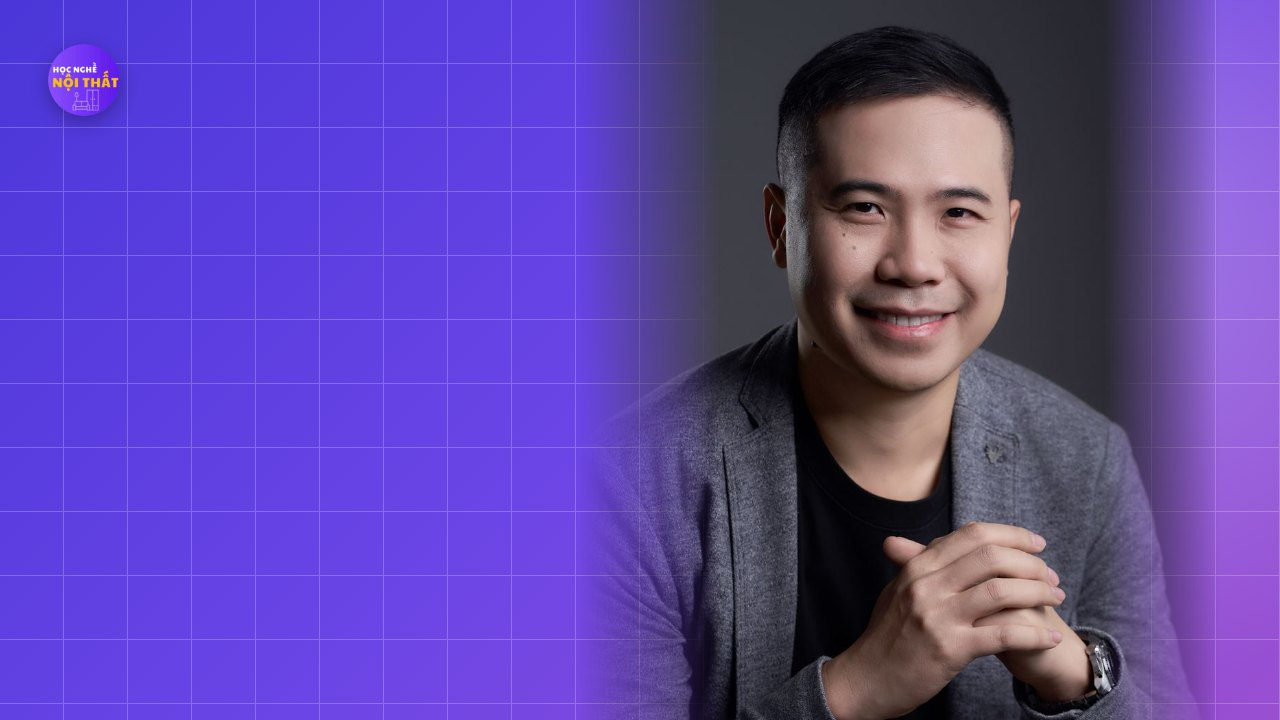
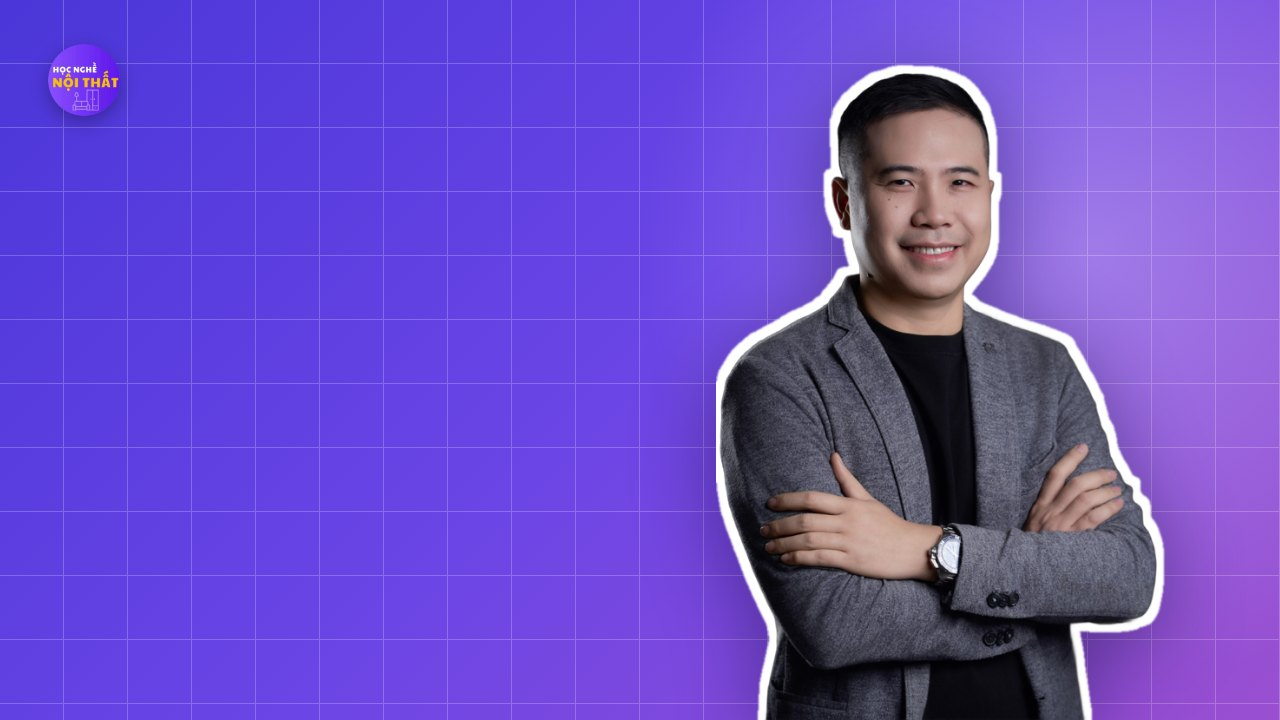
Thumbnail khoá học: chân dung Nam tách nền, viền trắng, mỗi khoá một ảnh
Claude-Session: https://claude.ai/code/session_01R1JQNXKSkK2vrspryuBMNZ

diff --git a/cong-cu/thumbnail/tao.js b/cong-cu/thumbnail/tao.js
@@ -2,16 +2,16 @@
 const {chromium}=require('playwright');const path=require('path');
 const goc=path.resolve(__dirname,'..','..');
 const ds=[
- ['do-go','violet','Xem video bài giảng','Thiết kế|đồ gỗ công nghiệp','Vẽ sao cho xưởng sản xuất được mới là thiết kế.'],
- ['nha-o','blue','Khoá học video','Thiết kế nội thất|căn hộ chung cư','Chủ động triển khai – tự làm được từ dự án nhỏ.'],
- ['du-toan','teal','Khoá học video','Dự toán|thi công nội thất','Làm báo giá bằng Excel, từ file báo giá thật.'],
- ['sale','plum','Khoá học video','Tư vấn thiết kế|cho sale nội thất','Hiểu vật liệu, hiểu xưởng, giao đề bài đúng.'],
- ['cnc','slate','Khoá học video','Ra file cắt CNC|với ABF','Chốt mẫu xong là tự ra file cắt, tránh hỏng ván.'],
+ ['do-go',2,'violet','Xem video bài giảng','Thiết kế|đồ gỗ công nghiệp','Vẽ sao cho xưởng sản xuất được mới là thiết kế.'],
+ ['nha-o',1,'blue','Khoá học video','Thiết kế nội thất|căn hộ chung cư','Chủ động triển khai – tự làm được từ dự án nhỏ.'],
+ ['du-toan',4,'teal','Khoá học video','Dự toán|thi công nội thất','Làm báo giá bằng Excel, từ file báo giá thật.'],
+ ['sale',3,'plum','Khoá học video','Tư vấn thiết kế|cho sale nội thất','Hiểu vật liệu, hiểu xưởng, giao đề bài đúng.'],
+ ['cnc',5,'slate','Khoá học video','Ra file cắt CNC|với ABF','Chốt mẫu xong là tự ra file cắt, tránh hỏng ván.'],
 ];
 (async()=>{const b=await chromium.launch();const p=await b.newPage({viewport:{width:1280,height:720},deviceScaleFactor:1});
-for(const [ten,c,k,t,s] of ds){
-  const u='file://'+path.join(__dirname,'mau.html')+'?'+new URLSearchParams({c,k,t,s});
-  await p.goto(u);await p.evaluate(()=>document.fonts.ready);await p.waitForTimeout(300);
+for(const [ten,ph,c,k,t,s] of ds){
+  const u='file://'+path.join(__dirname,'mau.html')+'?'+new URLSearchParams({c,k,t,s,p:ph});
+  await p.goto(u);await p.evaluate(()=>document.fonts.ready);await p.waitForFunction(()=>document.getElementById('p').complete);await p.waitForTimeout(300);
   await p.screenshot({path:path.join(goc,'anh',`video-${ten}.jpg`),type:'jpeg',quality:86});
   console.log('anh/video-'+ten+'.jpg');}
 await b.close();})();

diff --git a/cong-cu/thumbnail/mau.html b/cong-cu/thumbnail/mau.html
@@ -21,9 +21,8 @@
     background:radial-gradient(closest-side, rgba(255,255,255,.28), rgba(255,255,255,0)); }
   .txt, .name{ display:none !important; }
   .brand-mini{ position:absolute; left:48px; top:44px; width:72px; height:72px; border-radius:50%; box-shadow:0 6px 18px rgba(0,0,0,.3); }
-  .photo{ position:absolute; right:60px; bottom:0; width:640px; height:720px;
-    background:url(../../anh/chan-dung.jpg) 50% 18% / cover no-repeat;
-    mask-image:linear-gradient(90deg, transparent 0%, #000 22%, #000 82%, transparent 100%); -webkit-mask-image:linear-gradient(90deg, transparent 0%, #000 22%, #000 82%, transparent 100%); }
+  /* Chân dung đã tách nền + viền trắng, đứng sát đáy, lệch phải */
+  .photo{ position:absolute; right:110px; bottom:0; height:660px; width:auto; filter:drop-shadow(0 18px 40px rgba(20,8,60,.45)); }
   .txt{ position:absolute; left:72px; top:64px; width:720px; }
   .brand{ display:flex; align-items:center; font-size:26px; font-weight:500; letter-spacing:.01em; }
   .brand img{ width:64px; height:64px; margin-right:14px; border-radius:50%; box-shadow:0 4px 14px rgba(0,0,0,.3); }
@@ -35,7 +34,7 @@
   .name span{ display:block; font-size:18px; font-weight:500; opacity:.85; }
 </style></head>
 <body>
-  <div class="bg"></div><div class="grid"></div><div class="glow"></div><div class="photo"></div><img class="brand-mini" src="../../anh/logo.png" alt="">
+  <div class="bg"></div><div class="grid"></div><div class="glow"></div><img class="photo" id="p" alt=""><img class="brand-mini" src="../../anh/logo.png" alt="">
   <div class="txt">
     <div class="brand"><img src="../../anh/logo.png" alt="">hocnghenoithat<b>.vn</b></div>
     <div class="tag" id="k"></div>
@@ -46,6 +45,7 @@
 <script>
   var q=new URLSearchParams(location.search);
   document.body.className='c-'+(q.get('c')||'violet');
+  document.getElementById('p').src='nam/nam-'+(q.get('p')||'1')+'.png';
   document.getElementById('k').textContent=q.get('k')||'';
   document.getElementById('t').innerHTML=(q.get('t')||'').replace(/\|/g,'<br>');
   document.getElementById('s').textContent=q.get('s')||'';
